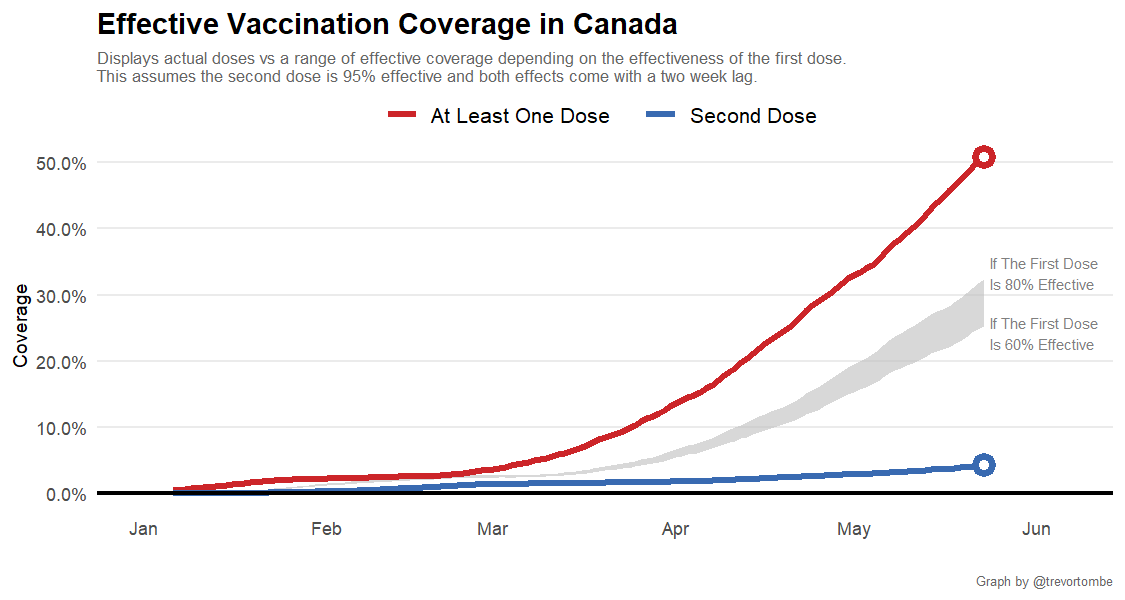
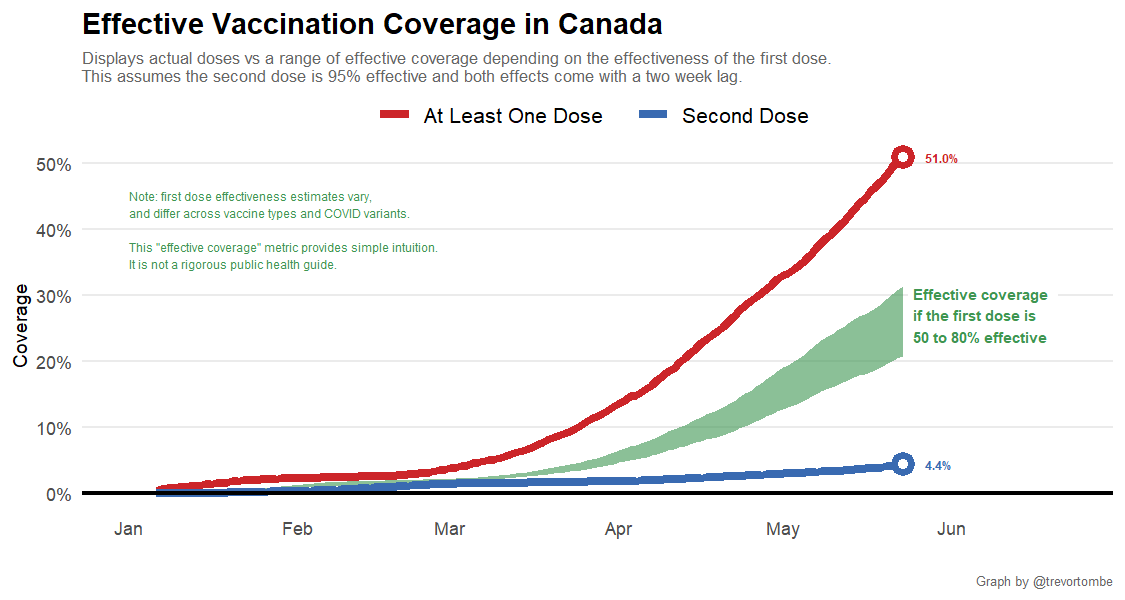
Update from https://github.com/trevortombe/vaccines/commit/21a3ef6ca36bf83092dba56136a0882911329524

diff --git a/index.md b/index.md
@@ -51,6 +51,10 @@ the past week and 356,904/day the week prior.
 
 ![](Plots/pace_national.png)
 
+And a measure of effective coverage:
+
+![](Plots/plot_effective.png)
+
 ------------------------------------------------------------------------
 
 Explore other visualizations by clicking on the appropriate menu item at
